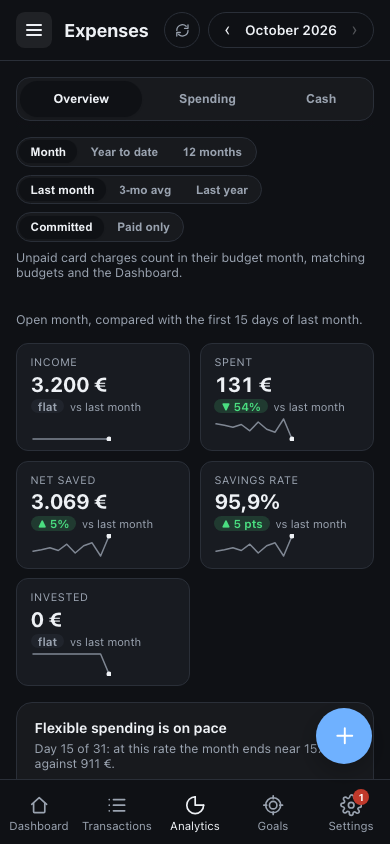
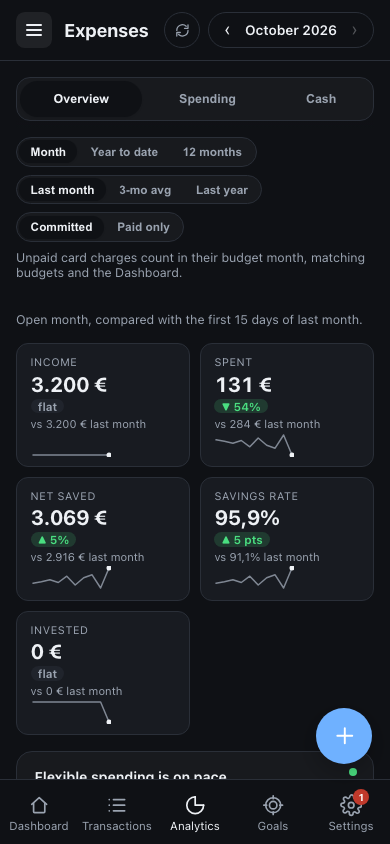
Regenerate the Analytics gallery images for the clarity changes
The Overview, Spending and Cash views changed. Only the six Analytics images are regenerated, since the rest of the gallery does not change.

diff --git a/docs/SCREENSHOT-GALLERY.md b/docs/SCREENSHOT-GALLERY.md
@@ -88,7 +88,7 @@ Grid mode, with CSV export. **Cash** answers "do my numbers match": one dot per 
 bridge from opening cash to expected cash with the count entered under it, drift bars with a ±5 €
 tolerance band, and balances labelled as cost; the full table sits in a fold. A committed/paid
 basis toggle (committed by default, matching budgets and the Dashboard) applies to Overview and
-Spending; Cash is paid-basis by nature. An open month is only compared with the same days of
+Spending; Cash is paid-basis by nature. The Overview's cards each carry a closed "How is this calculated?" note, and a closed "Detected fixed costs" card lists what counts as fixed. Cash starts counting at the first month you count: earlier months are muted, and that first count is the baseline drift is measured from. An open month is only compared with the same days of
 other months.
 
 | Overview (desktop) | Overview (mobile) |
